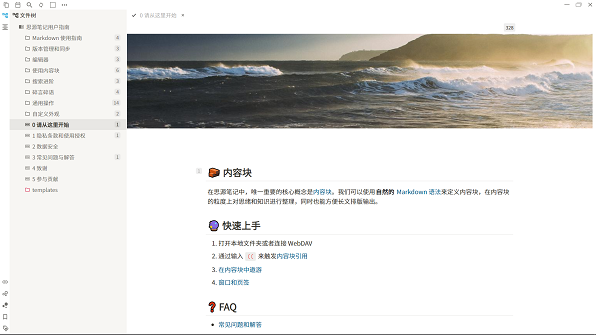
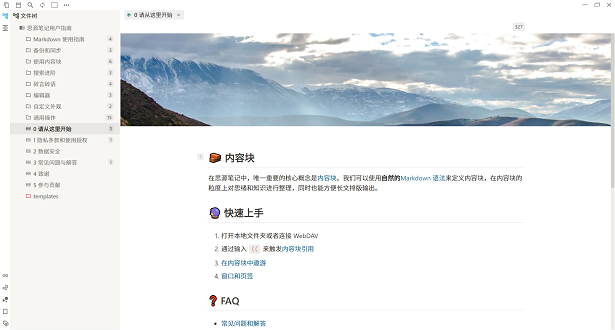
1.9.8 update

diff --git a/theme.css b/theme.css
@@ -1228,8 +1228,10 @@ div[data-type="block-render"] .vditor-reset > ul {
   /* background-color: rgba(55, 53, 47, 0.08); */
 }
 
-.vditor-ir__node[data-type="code-block"]:hover .vditor-ir__marker[data-type="code-block-info"],
-.vditor-ir__node[data-type="code-block"]:focus-within .vditor-ir__marker[data-type="code-block-info"]{
+.vditor-ir__node[data-type="code-block"]:hover
+  .vditor-ir__marker[data-type="code-block-info"],
+.vditor-ir__node[data-type="code-block"]:focus-within
+  .vditor-ir__marker[data-type="code-block-info"] {
   opacity: 1;
 }
 
@@ -1249,7 +1251,7 @@ div[data-type="block-render"] .vditor-reset > ul {
 }
 
 /* 代码块的行号 */
-.vditor-preview .hljs:not(.md).vditor-linenumber, 
+.vditor-preview .hljs:not(.md).vditor-linenumber,
 .vditor-ir__node[data-type="code-block"] code.vditor-linenumber {
   padding-left: 72.8px !important;
 }
@@ -1273,13 +1275,13 @@ div[data-type="block-render"] .vditor-reset > ul {
   background: rgb(234, 233, 229);
 }
 
-.vditor-copy{
+.vditor-copy {
   display: block;
   opacity: 0;
   transition: opacity 300ms ease-in;
 }
 
-.vditor-reset pre:hover .vditor-copy{
+.vditor-reset pre:hover .vditor-copy {
   opacity: 1;
 }
 
@@ -1290,12 +1292,12 @@ div[data-type="block-render"] .vditor-reset > ul {
   transform: translateX(-27px);
 }
 
-.vditor-copy > .b3-tooltips__w:active{
+.vditor-copy > .b3-tooltips__w:active {
   background-color: rgba(55, 53, 47, 0.16);
 }
 
-.vditor-copy > .b3-tooltips__w::before{
-  content: 'Copy';
+.vditor-copy > .b3-tooltips__w::before {
+  content: "Copy";
   color: rgb(55, 53, 47);
   display: inline-block;
   width: auto;
@@ -1746,4 +1748,69 @@ kbd {
 /* mermaid */
 .edgeLabel * {
   background-color: var(--NL-theme-background) !important;
+}
+
+/* TOC目录 */
+.vditor-toc{
+  padding: 0;
+}
+
+.vditor-toc::before{
+  display: none;
+}
+
+.vditor-toc ul {
+  border: none !important;
+  padding: 0 !important;
+}
+
+.vditor .vditor-reset .vditor-toc ul ul{
+  margin: 0 !important;
+  padding: 0 !important;
+}
+
+.vditor-toc li {
+  list-style: none !important;
+}
+
+.vditor-preview .vditor-reset .vditor-toc li{
+  margin: 0 !important;
+}
+
+.vditor-toc li span {
+  padding: 6px 2px;
+  font-size: 14px;
+  line-height: 1.3;
+  display: flex;
+  align-items: center;
+  margin-left: 0px;
+  /* text-decoration: underline; */
+  transition: background-color 20ms ease-in 0s;
+  cursor: pointer;
+  width: 100%;
+  color: rgba(55, 53, 47, 0.6);
+}
+
+.vditor-toc li span:hover{
+  background-color: rgba(55, 53, 47,0.08);
+}
+
+.vditor-toc ul ul > li > span{
+  padding-left: 24px;
+}
+
+.vditor-toc ul ul ul > li > span{
+  padding-left: 48px;
+}
+
+.vditor-toc ul ul ul ul > li > span{
+  padding-left: 72px;
+}
+
+.vditor-toc ul ul ul ul ul > li > span{
+  padding-left: 96px;
+}
+
+.vditor-toc ul ul ul ul ul ul > li > span{
+  padding-left: 120px;
 }

diff --git a/src/docs/CHANGELOG.md b/src/docs/CHANGELOG.md
@@ -1,12 +1,13 @@
-# 更新记录
+# CHANGELOG
 
-## 1.9.7
+## 1.9.8
 
 - 修改了富文本工具栏的分割线颜色
 - 修改了代码块的样式
   - 修改了复制键的样式和点击效果
   - 将代码块的语言类型放在了代码块的左上角输入框中
 - 修改了人物列表的语法
+- 修改了TOC目录的样式
 
 ## 1.9.3
 
